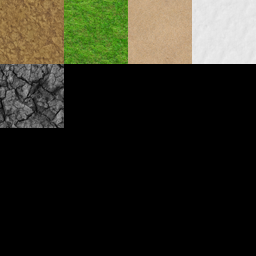
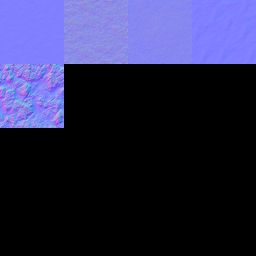
Добавил карты нормалей

diff --git a/client/src/app/services/three.js/terrain.service.ts b/client/src/app/services/three.js/terrain.service.ts
@@ -2,7 +2,7 @@ import { CreateArray, VoidFunctionVar } from "@_datas/app";
 import { MapTerrains, TexturePaths } from "@_datas/dream-map";
 import { DreamMapTerrainName } from "@_datas/dream-map-objects";
 import { DreamCeilParts, DreamCeilSize, DreamDefHeight, DreamMapDefaultTextureQuality, DreamMapSize, DreamMaxHeight, DreamOutsideSize, DreamTerrain } from "@_datas/dream-map-settings";
-import { LightMapTextureName, MapTextureName, MaskNames, MaskTextureNamePreffix, TerrainColorDepth, TerrainDefines, TerrainFragmentShader, TerrainRepeat, TerrainUniforms, TerrainVertexShader } from "@_datas/three.js/shaders/terrain.shader";
+import { LightMapTextureName, MapTextureName, MaskNames, MaskTextureNamePreffix, NormalMapTextureName, TerrainColorDepth, TerrainDefines, TerrainFragmentShader, TerrainRepeat, TerrainUniforms, TerrainVertexShader } from "@_datas/three.js/shaders/terrain.shader";
 import { AngleToRad, CheckInRange, MathRound } from "@_helpers/math";
 import { ArrayFind, ArrayForEach, ArraySome, ForCycle, MapCycle, XYForEach, XYMapEach } from "@_helpers/objects";
 import { CustomObject, CustomObjectKey } from "@_models/app";
@@ -12,7 +12,7 @@ import { Uniforms } from "@_models/three.js/base";
 import { ScreenService } from "@_services/screen.service";
 import { Injectable, OnDestroy } from "@angular/core";
 import { Observable, Subject, filter, forkJoin, map, mergeMap, of, takeUntil, tap, timer } from "rxjs";
-import { BackSide, CanvasTexture, ClampToEdgeWrapping, DataTexture, Float32BufferAttribute, FrontSide, LinearEncoding, LinearFilter, Mesh, NearestFilter, NearestMipmapNearestFilter, PlaneGeometry, RGBFormat, ShaderMaterial, Texture, TextureLoader, UniformsUtils } from "three";
+import { BackSide, CanvasTexture, DataTexture, Float32BufferAttribute, FrontSide, LinearEncoding, LinearFilter, Mesh, NearestFilter, NearestMipmapLinearFilter, NearestMipmapNearestFilter, PlaneGeometry, RGBFormat, RepeatWrapping, ShaderMaterial, Texture, TextureLoader, UniformsUtils } from "three";
 
 
 
@@ -144,8 +144,8 @@ export class DreamMapTerrainService implements OnDestroy {
         texture.format = RGBFormat;
         texture.magFilter = NearestFilter;
         texture.encoding = LinearEncoding;
-        texture.wrapS = ClampToEdgeWrapping;
-        texture.wrapT = ClampToEdgeWrapping;
+        texture.wrapS = RepeatWrapping;
+        texture.wrapT = RepeatWrapping;
         texture.anisotropy = 0;
         // Mipmaps
         if (createMipmaps && currentQuality >= 0) {
@@ -169,7 +169,7 @@ export class DreamMapTerrainService implements OnDestroy {
                 mipmaps.push(imageCanvas);
               }, true);
               // Обновить текстуру
-              texture.minFilter = NearestMipmapNearestFilter;
+              texture.minFilter = NearestMipmapLinearFilter;
               texture.generateMipmaps = false;
               texture.mipmaps = mipmaps;
               texture.needsUpdate = true;
@@ -208,9 +208,9 @@ export class DreamMapTerrainService implements OnDestroy {
     const textures: CustomObject<Texture | CanvasTexture> = {
       ...MaskNames.reduce((o, name, k) => ({ ...o, [name]: colorTextures[k] }), {}),
       [MapTextureName]: this.loadTexture(TexturePaths.face, ImageExtension.png, MapTextureName, true),
-      // [NormalMapTextureName]: this.loadTexture(TexturePaths.normal, ImageExtension.jpg, NormalMapTextureName),
-      // [AoMapTextureName]: this.loadTexture(TexturePaths.ao, ImageExtension.jpg, AoMapTextureName, true),
-      [LightMapTextureName]: this.loadTexture(TexturePaths.light, ImageExtension.jpg, LightMapTextureName)
+      [NormalMapTextureName]: this.loadTexture(TexturePaths.normal, ImageExtension.png, NormalMapTextureName, true),
+      // [AoMapTextureName]: this.loadTexture(TexturePaths.ao, ImageExtension.png, AoMapTextureName, true),
+      [LightMapTextureName]: this.loadTexture(TexturePaths.light, ImageExtension.png, LightMapTextureName, true)
     };
     // Значения
     const uniforms: Uniforms = UniformsUtils.merge([TerrainUniforms, {

diff --git a/client/src/app/datas/three.js/shaders/terrain.shader.ts b/client/src/app/datas/three.js/shaders/terrain.shader.ts
@@ -231,8 +231,8 @@ export const TerrainDefines: CustomObject<boolean> = {
   USE_UV: true,
   USE_MAP: true,
   USE_AOMAP: false,
-  USE_NORMALMAP: false,
-  USE_LIGHTMAP: false,
+  USE_NORMALMAP: true,
+  USE_LIGHTMAP: true,
   USE_BUMPMAP: false,
   USE_DISPLACEMENTMAP: false,
   PHYSICALLY_CORRECT_LIGHTS: false,
